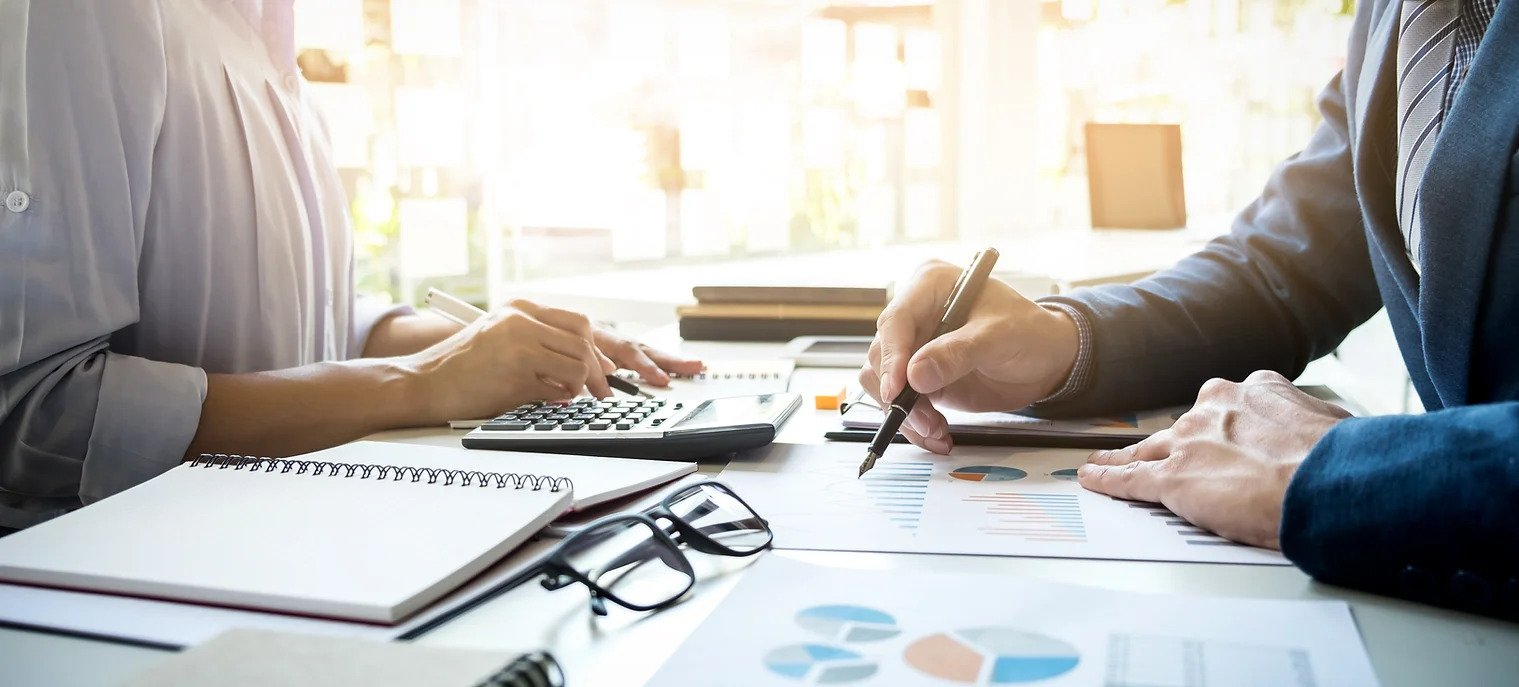
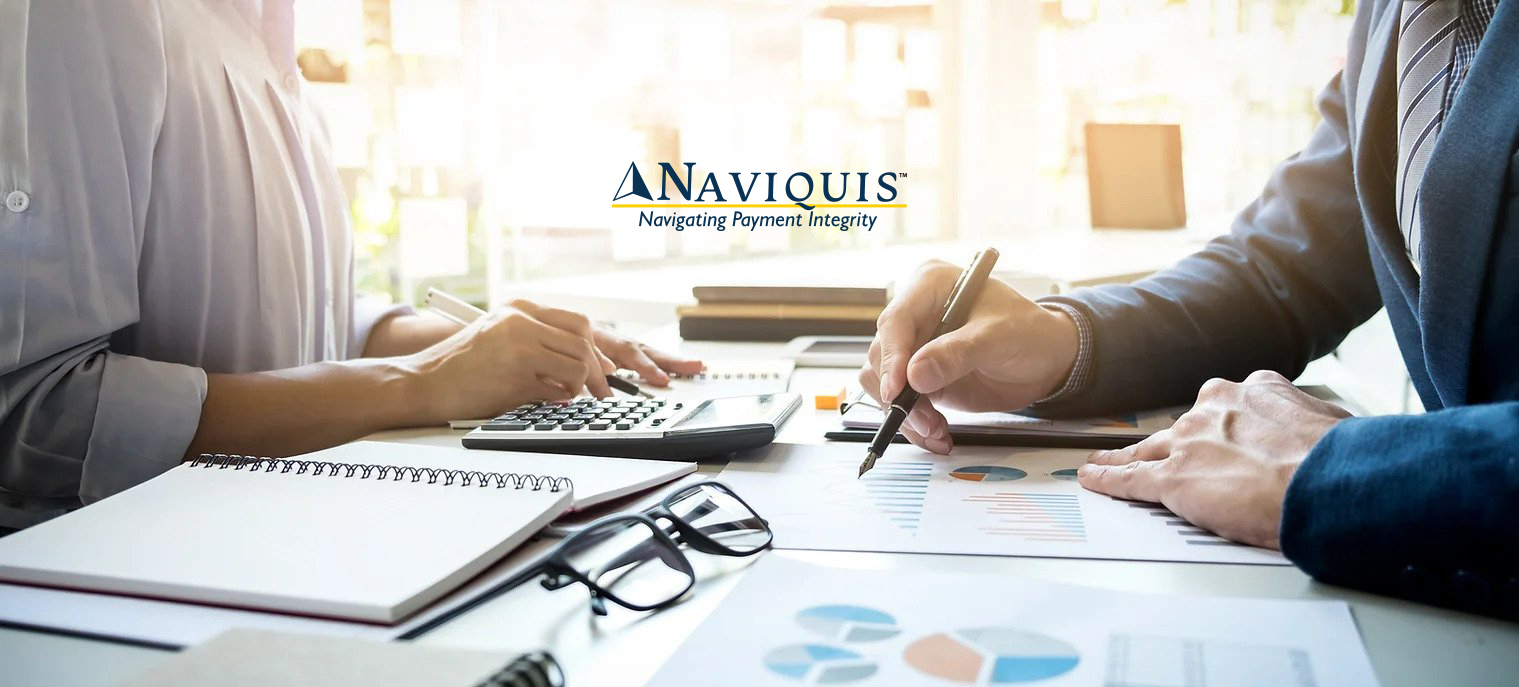
Login Page Design

Changed region(s): [[0.4022, 0.214, 0.5879, 0.3362]]

diff --git a/src/pages/Login/index.js b/src/pages/Login/index.js
@@ -20,8 +20,9 @@ export default function Login() {
         <Container>
           <Row className="align-items-center justify-content-center">
             <Col md="7">
+              {/* <img className="login-logo" src={images.SiteLogo} alt="Navigating Payment Integrity" /> */}
               <h3>Payment Integrity Solution</h3>
-              <p className="text-muted py-2">Leaders in Healthcare Payment Integrity, Detection & Provider Communication</p>
+              <p className="text-muted py-1">Leaders in Healthcare Payment Integrity, Detection & Provider Communication</p>
               <Form>
                 <Form.Group className="mb-3" controlId="formBasicEmail">
                   <Form.Label>Email address</Form.Label>

diff --git a/src/pages/Login/Login.scss b/src/pages/Login/Login.scss
@@ -18,6 +18,10 @@
     .contents {
         width: 50%;
         background: #f6f7fc;
+        .login-logo {
+            width: 220px;
+            padding-bottom: 1.5rem;
+        }
         .form-control {
             box-shadow: 0 1px 2px 0 rgba(0, 0, 0, 0.1);
             border: none;

diff --git a/src/data/images.js b/src/data/images.js
@@ -1,5 +1,7 @@
 const loginImage = require("../assets/images/loginBanner.jpg")
+const SiteLogo = require("../assets/images/logo.svg").default
 const images = {
-    loginImage
+    loginImage,
+    SiteLogo
 }
 export default images
